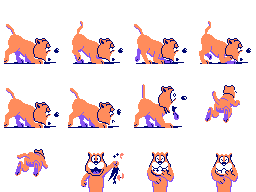
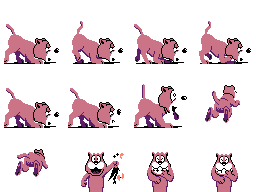
tweaking assets

diff --git a/src/assetLoader.js b/src/assetLoader.js
@@ -2,7 +2,7 @@ import k from "./kaplayCtx";
 
 export function loadAssets() {
   k.loadSprite("background", "./background-alt.png");
-  k.loadSprite("menu", "./menu-alt.png");
+  k.loadSprite("menu", "./menu.png");
   k.loadSprite("cursor", "./cursor.png");
   k.loadFont("nes", "./fonts/nintendo-nes-font/nintendo-nes-font.ttf");
   k.loadSprite("dog", "./dog-alt.png", {
@@ -17,7 +17,7 @@ export function loadAssets() {
       mock: { from: 10, to: 11, loop: true },
     },
   });
-  k.loadSprite("duck", "./duck-alt.png", {
+  k.loadSprite("duck", "./duck.png", {
     sliceX: 8,
     sliceY: 1,
     anims: {

diff --git a/src/main.js b/src/main.js
@@ -25,7 +25,7 @@ k.scene("main-menu", () => {
   k.add([
     k.text(formatScore(bestScore, 6), { font: "nes", size: 8 }),
     k.pos(150, 184),
-    k.color(COLORS.GREEN),
+    k.color(COLORS.RED),
   ]);
 
   k.onClick(() => {
@@ -48,7 +48,7 @@ k.scene("game", () => {
     k.text("1", { font: "nes", size: 8 }),
     k.pos(42, 182),
     k.z(2),
-    k.color(COLORS.GREEN2),
+    k.color(COLORS.RED),
   ]);
 
   const duckIcons = k.add([k.pos(95, 198)]);

diff --git a/src/constants.js b/src/constants.js
@@ -1,7 +1,5 @@
 export const COLORS = {
-  BLUE: "#639bff",
+  BLUE: "#9fa2cb", //"#639bff",
   BEIGE: "#ffccc5",
-  GREEN: "#63ffba",
-  GREEN2: "#63ffba",
-  RED: "#b53121",
+  RED: "#cb7387",
 };
